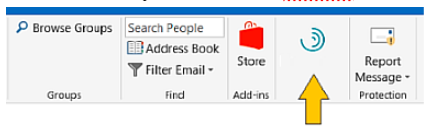
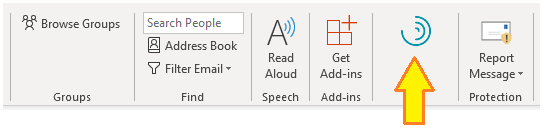
updates to insights

Changed region(s): [[0.0, 0.0, 1.0, 0.9771], [0.8311, 0.1527, 0.9498, 0.3359]]

diff --git a/WorkplaceAnalytics/insights-in-outlook.md b/WorkplaceAnalytics/insights-in-outlook.md
@@ -35,14 +35,30 @@ If your answer to any of these questions is _yes_, we have exciting news for you
 
   ![Productivity insights](images/mya/overview/productivity-insights.png)
 
-Here are some insights that you might see:  
+## Insights
 
-   * **Book focus time** – blurb of when it shows and what it does 
-   * **To-do reminders** – blurb of when it shows and what it does 
-   * **Unread email** – blurb of when it shows and what it does 
-   * **Meeting prep** – blurb of when it shows and what it does 
-   * **Missing 1:1s** – blurb of when it shows and what it does 
+The insights appear in the right panel of Outlook, after you have selected the swirl icon:
+
+  ![Insights panel](images/mya/overview/insights-panel.png)
+
+
+### Insights that you might see
+
+The following insights appear as cards 
+
+   * **Book focus time**: Protect your calendar by reserving focus time before meetings take over. The following insight card can help you do this: 
+  ![Book focus time](images/mya/overview/book-focus-time.png)
+
+   * **To-do reminders**: Make sure nothing falls through the cracks with reminders of tasks you promised to complete for coworkers over email. 
+
+   * **Unread email**: Cut through the clutter with a summary of unread emails from your most important contacts. 
+
+   * **Meeting prep**: Get a heads up on meeting conflicts on your calendar, attendees that haven’t yet accepted your invites, and other meeting prep tips. 
+
+   * **Suggestions for 1:1s**: Set up 1:1s with important contacts that you haven’t met with for a few weeks. 
+
+   * **After-hours impact**: Help your team achieve work-life balance by reviewing the impact of your after-hours emails.
 
 ## Privacy by design 
 
-Your insights are private, personal, and only you can see them. Learn more about how [Microsoft protects your privacy](https://docs.microsoft.com/en-us/workplace-analytics/myanalytics/overview/privacy-guide). 
+Your insights are private, personal, and only you can see them. They are computed on the fly based on your email and meeting information and are never cached, stored, or moved out of your mailbox. [Learn more about how Microsoft protects your privacy](https://docs.microsoft.com/en-us/workplace-analytics/myanalytics/overview/privacy-guide). 
